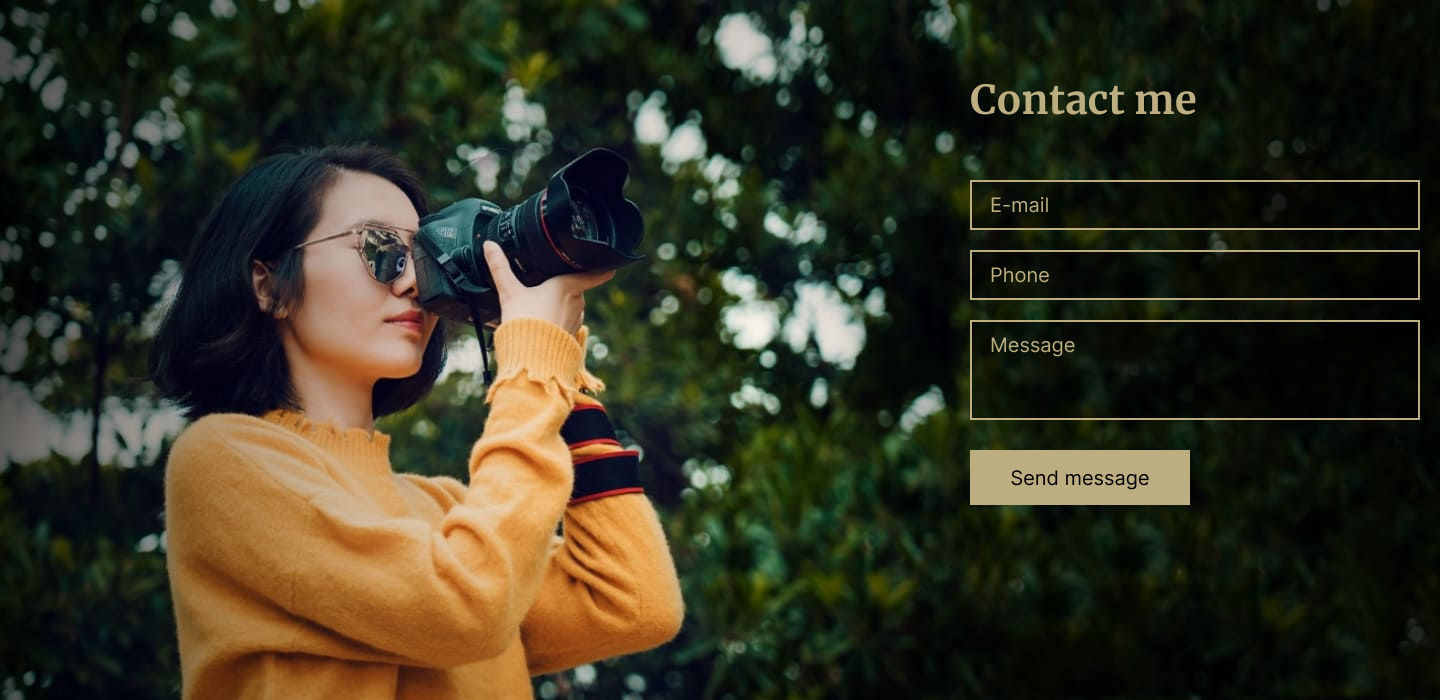
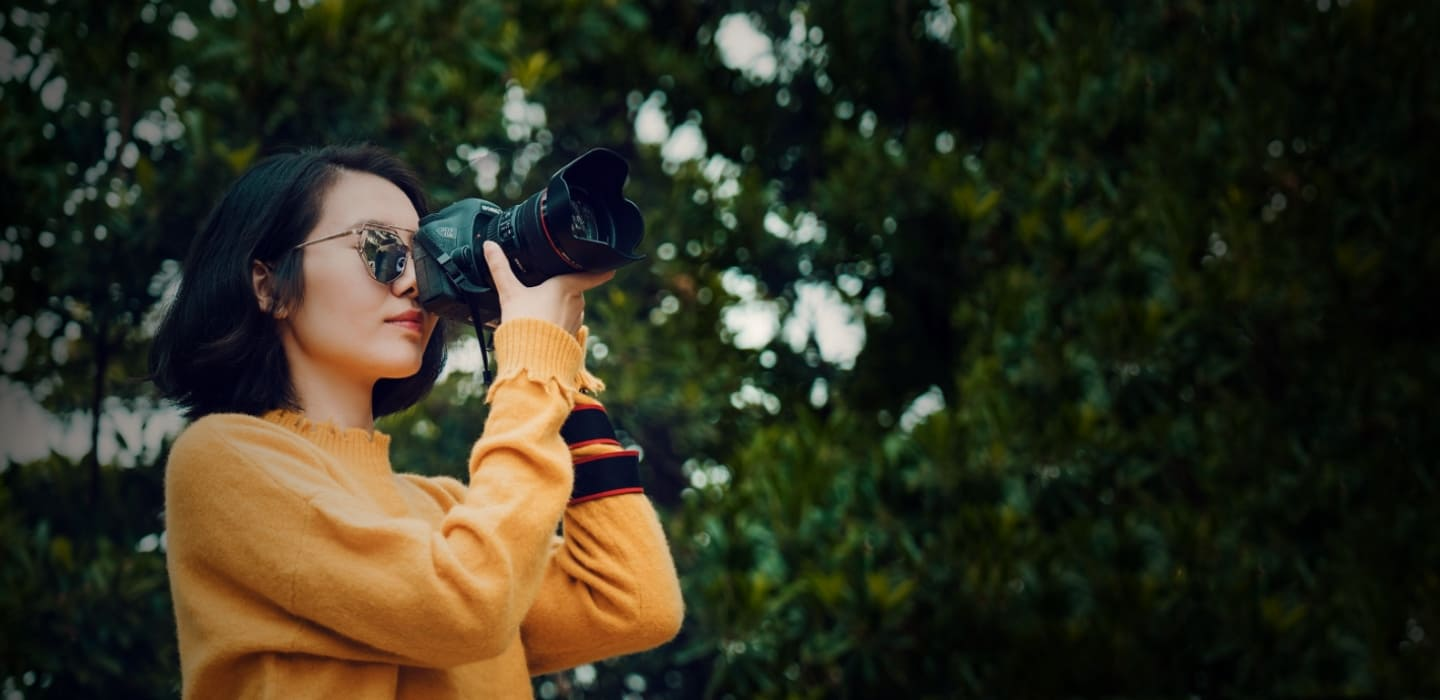
feat: add contact me background

diff --git a/portfolio/style.css b/portfolio/style.css
@@ -196,16 +196,7 @@ body {
   text-align: center;
   background-position: center -900px;
 }
-.section-contacts {
-  font-size: 40px;
-  font-weight: 700;
-  text-transform: uppercase;
-  letter-spacing: 5px;
-  font-family: Merriweather;
-  line-height: 80px;
-  color: #bdae82e5;
-  text-align: center;
-}
+
 .section-portfolio {
   font-size: 40px;
   font-weight: 700;
@@ -525,7 +516,16 @@ background-size: 450px 560px;
   margin-left: auto;
   margin-right: auto;
 }
-.section-contacts {  
+.section-contacts {
+  margin-top: 50px;
+  font-size: 40px;
+  font-weight: 700;
+  text-transform: uppercase;
+  letter-spacing: 5px;
+  font-family: Merriweather;
+  line-height: 80px;
+  color: #bdae82e5;
+  text-align: center; 
   text-align: center;
   position: relative;
   box-sizing: border-box;
@@ -540,26 +540,9 @@ background-size: 450px 560px;
   line-height: 80px;
   color: #bdae82e5;
   width: 1440px;
+  height: 600px;
+  background-image: url(./assets/img/contacts.png);
 }
-.section-contacts::before,
-.section-contacts::after {
-  content: '';
-  display: inline-block;
-  width: 25%;
-  height: 3px;
-  background-image: linear-gradient(to top, #bdae82e5 39px, #bdae82 39px, #bdae82 41px, #000 41px);;
-  z-index: -1;
-  position: relative;
-  vertical-align: middle;
-}
-.section-contacts:before {
-  right: 15px;
-  margin: 0 0 0 -100%;
- }
- .section-contacts:after {
-  left: 15px;
-  margin: 0 -100% 0 0;
- }
  ::placeholder {
   font-family: inherit;
   color: #bdae82;

diff --git a/portfolio/index.html b/portfolio/index.html
@@ -178,18 +178,15 @@
                 </div>
             </section>
             <section class="section">
-                <h2 class="section-contacts" id="contacts">contacts</h2>
-                <form class="contact-me">
-                    <p>Contact me</p>
-                    <input type="email" placeholder="E-mail">
-                    <input type="tel" placeholder="Phone">
-                    <textarea type="message" placeholder="Message"></textarea>
-                    <button class="golden" placeholder="123-45-678">Send message</button>
-                </form>
-
-
-
-
+                <div class="section-contacts" id="contacts">
+                    <form class="contact-me">
+                        <p>Contact me</p>
+                        <input type="email" placeholder="E-mail">
+                        <input type="tel" placeholder="Phone">
+                        <textarea type="message" placeholder="Message"></textarea>
+                        <button class="golden" placeholder="123-45-678">Send message</button>
+                    </form>
+                </div>
         </div>
     </main>
 
